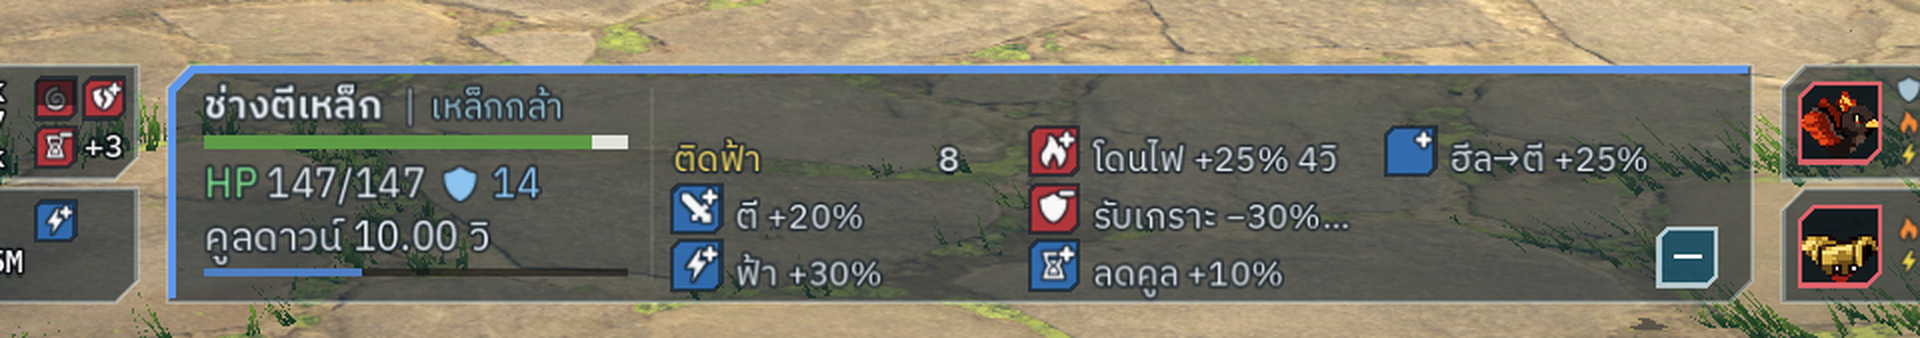
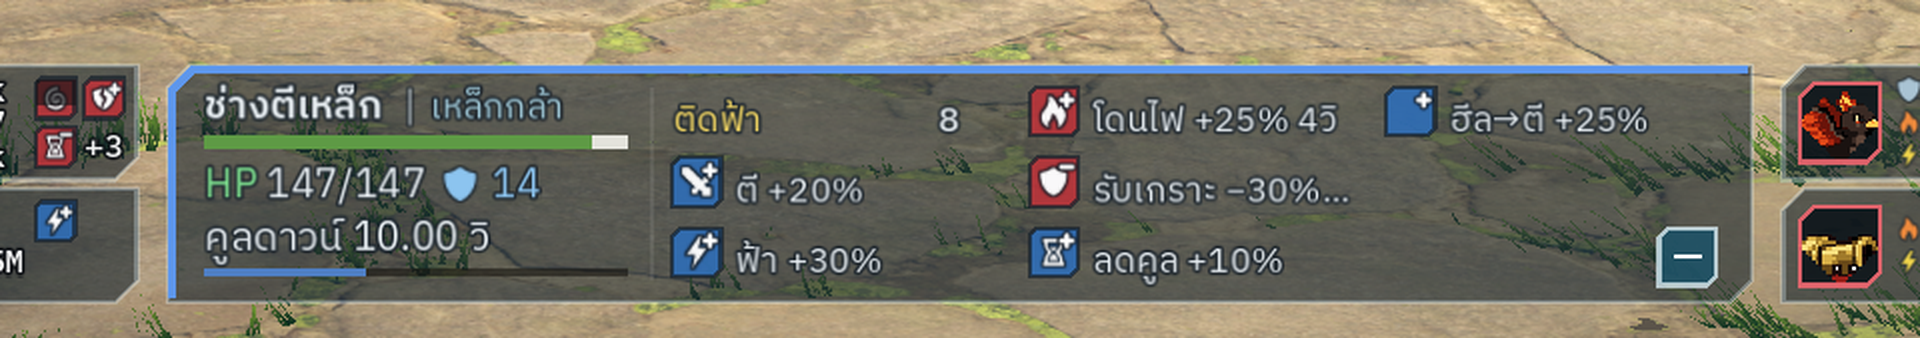
set 299 r35z4: values + status rows use the full box height (sample)

diff --git a/claude/preview-set268/r35d-m/s299r35z-patch.py b/claude/preview-set268/r35d-m/s299r35z-patch.py
@@ -84,18 +84,19 @@ func _area299(R: Rect2, v: Dictionary, L2: float, ink: Color, mute: Color) -> vo
 	var bc := br.get_center()
 	_pn_layer.draw_rect(Rect2(bc.x - 3.0, bc.y - 0.5, 6.0, 1.0), Color(1, 1, 1, 1))
 	if _pg299 == 0: _pn_layer.draw_rect(Rect2(bc.x - 0.5, bc.y - 3.0, 1.0, 6.0), Color(1, 1, 1, 1))   # "+" on the skill page, "−" on the stats page
-	var top := y + 14.0
+	var top := y + 14.0   # skill text starts under the stars
+	var vtop := y + 4.0   # owner: the other boxes do not wait for the stars — original rows, pitch 16
 	var cw2 := 58.0
 	var L3 := L2 + cw2 * 2.0 + 4.0 + 10.0
 	if _pg299 == 0:   # page 1: middle = the 6 values (3 rows x 2) · right = the unit's skill (game text for its level)
 		var sl := _slots(v)
 		for i in sl.size():
 			var gx := L2 + (0.0 if i % 2 == 0 else cw2 + 4.0)
-			var gy := top + float(i / 2) * 13.0
+			var gy := vtop + float(i / 2) * 16.0
 			var kd := String(sl[i][0])
-			_dtxt(Vector2(gx, gy + 10.0), String(PN299_W.get(kd, kd)), 8, TAG_COL3.get(kd, INK))
-			_dnum(Vector2(0, gy + 10.0), String(sl[i][1]) if sl[i][2] else "-", 8, ink, gx + cw2)
-		_pn_layer.draw_rect(Rect2(L3 - 5.0, y + 18.0, 1.0, R.size.y - 26.0), Color(1, 1, 1, 0.08))
+			_dtxt(Vector2(gx, gy + 11.0), String(PN299_W.get(kd, kd)), 8, TAG_COL3.get(kd, INK))
+			_dnum(Vector2(0, gy + 11.0), String(sl[i][1]) if sl[i][2] else "-", 8, ink, gx + cw2)
+		_pn_layer.draw_rect(Rect2(L3 - 5.0, y + 5.0, 1.0, R.size.y - 10.0), Color(1, 1, 1, 0.08))
 		var nlv := clampi(int(v.get("level", 1)), 1, 5)   # owner: stars belong to the skill box (gone on page 2)
 		for i in nlv: _star299(Vector2(L3 + 3.5 + float(i) * 8.0, y + 8.0), 3.4)
 		var groups: Variant = TH.labels().get("skills", {}).get(str(v.get("id")))
@@ -121,19 +122,19 @@ func _area299(R: Rect2, v: Dictionary, L2: float, ink: Color, mute: Color) -> vo
 		if String(q[0]) == "armor": continue   # owner: only burn / shock come back, armour stays on the HP line
 		items.append(["n", String(q[0]), String(L4_NUM.get(q[0], q[0])), String(q[1]), true, ""])
 	for e in _effects(v): items.append(["e", String(e[1]), _short4(e), "", bool(e[2]), String(e[5])])
-	if items.is_empty(): _dtxt(Vector2(L2, top + 10.0), "ไม่มีสถานะ", 8, mute)
+	if items.is_empty(): _dtxt(Vector2(L2, vtop + 11.0), "ไม่มีสถานะ", 8, mute)
 	var cap := 8   # slot 9 = the flip box
 	var shown := mini(items.size(), cap if items.size() <= cap else cap - 1)
 	for i in shown:
 		var gx := L2 + float(i / 3) * (cw3 + 6.0)
-		var gy := top + float(i % 3) * 13.0
+		var gy := vtop + float(i % 3) * 16.0
 		var it: Array = items[i]
 		if it[0] == "n":   # burn / shock numbers are back: word in its kind hue + number
 			var kc: Color = TAG_COL3.get(_l4_col(String(it[1])), INK)
-			_dtxt(Vector2(gx, gy + 10.0), String(it[2]), 8, kc)
-			_dnum(Vector2(0, gy + 10.0), String(it[3]), 8, ink, gx + cw3 - 10.0)
+			_dtxt(Vector2(gx, gy + 11.0), String(it[2]), 8, kc)
+			_dnum(Vector2(0, gy + 11.0), String(it[3]), 8, ink, gx + cw3 - 10.0)
 			continue
-		var cr := Rect2(gx, gy, 11.0, 11.0)   # same chip as on the cards: cut 15 %, baked icon, small + / −
+		var cr := Rect2(gx, gy + 1.0, 11.0, 11.0)   # same chip as on the cards: cut 15 %, baked icon, small + / −
 		var cpp := _cutpts299(cr, 11.0 * 0.15)
 		_pn_layer.draw_colored_polygon(cpp, Color("#2f6db5", 0.92) if it[4] else Color("#b8343a", 0.92))
 		_pn_layer.draw_polyline(cpp + PackedVector2Array([cpp[0]]), Color(OUT, 0.7), 1.0)
@@ -144,9 +145,9 @@ func _area299(R: Rect2, v: Dictionary, L2: float, ink: Color, mute: Color) -> vo
 		if String(it[5]) != "":
 			var cmk := icon_tex("n_plus" if String(it[5]) == "+" else "n_minus")
 			if cmk != null: _pn_layer.draw_texture_rect(cmk, cr, false, Color(1, 1, 1, 1))
-		_dtxt(Vector2(gx + 14.0, gy + 10.0), _fit_txt(String(it[2]), 8, cw3 - 14.0), 8, ink)
+		_dtxt(Vector2(gx + 14.0, gy + 11.0), _fit_txt(String(it[2]), 8, cw3 - 14.0), 8, ink)
 	if items.size() > cap:
-		_dtxt(Vector2(L2 + 2.0 * (cw3 + 6.0), top + 10.0 + 13.0), "+%d อย่าง" % (items.size() - shown), 8, mute)
+		_dtxt(Vector2(L2 + 2.0 * (cw3 + 6.0), vtop + 11.0 + 16.0), "+%d อย่าง" % (items.size() - shown), 8, mute)
 
 '''
 rep('\nfunc _stone297(', new_fn + '\nfunc _stone297(')

diff --git a/claude/preview-set268/notes.md b/claude/preview-set268/notes.md
@@ -286,3 +286,4 @@ Rebuild adds → s299r35w10-patch.py (after s299r35w9).
 111. (set 299, round 35z, pending owner OK) Owner on the detail panel after note 110: status column → the unit's SKILL · stars moved from the left column to the top of the box · "+" at the box's bottom-right corner flips the page · left column fixed · middle + right merged · burn / shock numbers back · name shows "name | tribe" instead of stars (ช่างตีเหล็ก | เหล็กกล้า) · HP line: shield symbol instead of the word เกราะ. Built: left column W1 96 (name bold + "|" + tribe light blue, HP green + shield icon + armour number, คูลดาวน์ + bar) · one box right of it: stars on top, page 1 (default) = skill text from labels.skills for the unit's level (wrapped, max 4 lines, none = "ไม่มีสกิล"), page 2 = the 6 values 3×2 + burn / shock (word in kind hue + number; armour NOT repeated) + buff / debuff chips (note 110 chip), max 5 then "+N อย่าง" · flip box 13 px cut-corner, "+" on page 1, "−" on page 2 · tap = flip (page kept when another unit is picked). Env S299PAGE=1 = start on page 2 (stills). Seen: chip words still cut with "…" in the right half of page 2 (area ≈ 250 base wide); mock burn missing in the stills. Rebuild adds → s299r35z-patch.py (after s299r35y). Shots S299z-p0.png (skill page) · S299z-p1.png (stats page), seed 22 PICK=3 FK=1 MK=s. (Shots redone with S297E=4 = the card plate; the first shots used a wrong E value so the plate was missing — not a code change.)
 112. (set 299, round 35z2, pending owner OK) Owner redo of note 111: page 1 = middle box (the 6 values 3×2: พลังโจมตี / มัลติฮิต …) + right box = the unit's skill ("กล่องซ้าย" read as the right box — the left name column stays fixed) · page 2 = middle + right merged = status: burn / shock numbers + buff / debuff chips, 3 rows × 3 columns column-major, max 8 then "+N อย่าง" (slot 9 = flip box) · stars on top of the box on both pages · flip box "+" (page 1) / "−" (page 2). Same patch file s299r35z-patch.py (rewritten, after s299r35y; shots need S297E=4 or the plate is missing). Shots S299z-p0.png (values + skill) · S299z-p1.png (status). Seen: skill text wraps in ~3 lines at ~28 chars; long chip words ("รับเกราะ −30%…") still cut on page 2.
 113. (set 299, round 35z3, pending owner OK) Owner: the stars always belong to the skill box — when the skill box is replaced (page 2) the stars go too. Stars now drawn at the top of the skill box on page 1 only; page 2 has none. Same patch file s299r35z-patch.py. Shots S299z-p0.png / S299z-p1.png.
+114. (set 299, round 35z4, pending owner OK) Owner: why do the other boxes keep a gap for the stars? → the 6 values (page 1) and the status grid (page 2) go back to the original rows (top y+4, pitch 16, spread over the full box height); only the skill text sits under its stars. Hairline before the skill box full height. Same patch file s299r35z-patch.py. Shots S299z-p0.png / S299z-p1.png.
